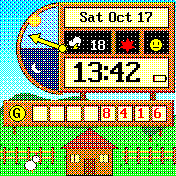
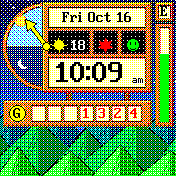
stardewclk 0.02: energy bar battery, mountains background, background setting
Battery moves from the time box to a Stardew energy bar on the right.
Adds the mountains/night-sky background (new default) alongside the
farm, selectable in the app's settings.

diff --git a/apps/stardewclk/bg0.js b/apps/stardewclk/bg0.js
@@ -1,0 +1,1 @@
[1 lines of base64/hex data omitted]

diff --git a/apps/stardewclk/bg1.js b/apps/stardewclk/bg1.js
@@ -1,0 +1,1 @@
[1 lines of base64/hex data omitted]

diff --git a/apps/stardewclk/app.js b/apps/stardewclk/app.js
@@ -1,19 +1,23 @@
 // Stardew Clock: a watch face styled on the Stardew Valley HUD.
-// Artwork is in stardewclk.bg.img (full screen) and stardewclk.icons
-// (13 raw 16x16 3bpp icons); see README.md for how they were made.
+// Artwork is in stardewclk.bg0.img/bg1.img (full-screen backgrounds:
+// mountains, farm) and stardewclk.icons (13 raw 16x16 3bpp icons); see
+// README.md for how they were made.
 {
   const storage = require("Storage");
   const locale = require("locale");
   require("Font8x16").add(Graphics);
 
   // Layout, matching the artwork
-  const PIVOT_X = 62, PIVOT_Y = 48, HAND_LEN = 36;
-  const DATE_X = 116, DATE_Y = 18;
-  const WEATHER_X = 67, SEASON_X = 119, LUCK_X = 148, ICON_Y = 34;
-  const TIME_X0 = 64, TIME_X1 = 168, TIME_Y = 73;
-  const GOLD_X = 32, GOLD_Y = 114, DIGIT_W = 17, DIGITS = 8;
+  const PIVOT_X = 46, PIVOT_Y = 46, HAND_LEN = 34;
+  const DATE_X = 97, DATE_Y = 18;
+  const WEATHER_X = 51, SEASON_X = 97, LUCK_X = 125, ICON_Y = 34;
+  const TIME_X0 = 48, TIME_X1 = 145, TIME_Y = 73;
+  const GOLD_X = 31, GOLD_Y = 114, DIGIT_W = 16, DIGITS = 7;
+  const ENERGY_X0 = 160, ENERGY_X1 = 168, ENERGY_Y0 = 28, ENERGY_Y1 = 121;
 
   let is12Hour = (storage.readJSON("setting.json", 1) || {})["12hour"];
+  let settings = storage.readJSON("stardewclk.json", 1) || {};
+  let bgFile = "stardewclk.bg" + (settings.bg | 0) + ".img";
   let drawTimeout;
 
   let icon = function(n, x, y) {
@@ -56,7 +60,7 @@
 
   let draw = function() {
     let d = new Date();
-    g.reset().drawImage(storage.read("stardewclk.bg.img"), 0, 0);
+    g.reset().drawImage(storage.read(bgFile), 0, 0);
     drawHand(d);
 
     // Date
@@ -69,32 +73,36 @@
       icon(weatherIcon(weather.code), WEATHER_X, ICON_Y + 3);
       // "22°C" -> "22", the unit won't fit
       g.setColor(1, 1, 1).setFont("8x16").setFontAlign(0, 0);
-      g.drawString(locale.temp(weather.temp - 273.15).replace(/[^-\d]+$/, ""), WEATHER_X + 31, ICON_Y + 12);
+      g.drawString(locale.temp(weather.temp - 273.15).replace(/[^-\d]+$/, ""), WEATHER_X + 27, ICON_Y + 12);
     } else {
-      icon(0, WEATHER_X + 13, ICON_Y + 3); // no forecast: it's sunny in the valley
+      icon(0, WEATHER_X + 10, ICON_Y + 3); // no forecast: it's sunny in the valley
     }
     let m = d.getMonth();
     icon(m >= 2 && m <= 4 ? 6 : m >= 5 && m <= 7 ? 7 : m >= 8 && m <= 10 ? 8 : 9, SEASON_X, ICON_Y + 3);
     icon(10 + luck(d), LUCK_X, ICON_Y + 3);
 
-    // Time, with am/pm and the battery in a column on the right
+    // Time, with am/pm in the bottom right corner
     let h = d.getHours();
-    let right = TIME_X1 - 16;
+    let right = TIME_X1;
     if (is12Hour) {
+      right -= 13;
       g.setColor(0, 0, 0).setFont("6x8").setFontAlign(0, 0);
-      g.drawString(h < 12 ? "am" : "pm", right + 7, TIME_Y - 7);
+      g.drawString(h < 12 ? "am" : "pm", right + 6, TIME_Y + 7);
       h = h % 12 || 12;
     }
-    let bat = E.getBattery();
-    g.setColor(0, 0, 0).drawRect(right + 1, TIME_Y + 2, right + 13, TIME_Y + 8).fillRect(right + 14, TIME_Y + 4, right + 14, TIME_Y + 6);
-    g.setColor(bat > 30 ? "#0f0" : bat > 15 ? "#ff0" : "#f00").fillRect(right + 2, TIME_Y + 3, right + 2 + Math.round(bat / 10), TIME_Y + 7);
     g.setColor(0, 0, 0).setFont("8x16", 2).setFontAlign(0, 0);
     g.drawString(h + ":" + ("0" + d.getMinutes()).substr(-2), (TIME_X0 + right) / 2, TIME_Y + 1);
+
+    // Battery as the energy bar: fills from the bottom, green to red
+    let bat = E.getBattery();
+    g.setFont("8x16").drawString("E", 164, 12);
+    g.setColor(bat > 50 ? "#0f0" : bat > 20 ? "#ff0" : "#f00");
+    g.fillRect(ENERGY_X0, ENERGY_Y1 - Math.round((ENERGY_Y1 - ENERGY_Y0) * bat / 100), ENERGY_X1, ENERGY_Y1);
 
     // Today's steps as gold
     g.setColor(1, 1, 0).fillCircle(17, GOLD_Y - 1, 8).setColor(0, 0, 0).drawCircle(17, GOLD_Y - 1, 8);
     g.setFont("8x16").setFontAlign(0, 0).drawString("G", 17, GOLD_Y);
-    let steps = String(Math.min(Bangle.getHealthStatus("day").steps, 99999999));
+    let steps = String(Math.min(Bangle.getHealthStatus("day").steps, 9999999));
     g.setColor(1, 0, 0);
     for (let i = 0; i < steps.length; i++)
       g.drawString(steps[i], GOLD_X + (DIGITS - steps.length + i) * DIGIT_W + 7, GOLD_Y);
@@ -115,13 +123,17 @@
     }
   };
 
+  let onCharging = () => draw();
+
   Bangle.on("lcdPower", onLcd);
+  Bangle.on("charging", onCharging);
   Bangle.setUI({
     mode: "clock",
     remove: function() {
       if (drawTimeout) clearTimeout(drawTimeout);
       drawTimeout = undefined;
       Bangle.removeListener("lcdPower", onLcd);
+      Bangle.removeListener("charging", onCharging);
       require("widget_utils").show();
     }
   });

diff --git a/apps/stardewclk/app-icon.js b/apps/stardewclk/app-icon.js
@@ -1,1 +1,1 @@
[2 lines of base64/hex data omitted]

diff --git a/apps/stardewclk/settings.js b/apps/stardewclk/settings.js
@@ -1,0 +1,19 @@
+(function(back) {
+  const FILE = "stardewclk.json";
+  const BACKGROUNDS = ["Mountains", "Farm"];
+  let settings = require("Storage").readJSON(FILE, 1) || {};
+
+  E.showMenu({
+    "": { "title": "Stardew Clock" },
+    "< Back": back,
+    "Background": {
+      value: settings.bg | 0,
+      min: 0, max: BACKGROUNDS.length - 1,
+      format: v => BACKGROUNDS[v],
+      onchange: v => {
+        settings.bg = v;
+        require("Storage").writeJSON(FILE, settings);
+      }
+    }
+  });
+})

diff --git a/apps/stardewclk/README.md b/apps/stardewclk/README.md
@@ -2,7 +2,7 @@
 
 A watch face styled on the Stardew Valley HUD.
 
-![](screenshot.png)
+![](screenshot.png) ![](screenshot2.png)
 
 ## What it shows
 
@@ -16,18 +16,27 @@ A watch face styled on the Stardew Valley HUD.
 * **Season**: spring, summer, fall or winter, by month (northern hemisphere).
 * **Daily luck**: a spirit that's happy, neutral or grumpy. It changes
   once a day.
-* **Time**: follows the 12/24 hour setting, with the battery level beside it.
+* **Time**: follows the 12/24 hour setting.
+* **Energy**: the bar on the right is the battery. It turns yellow below
+  50% and red below 20%.
 * **Gold**: today's step count.
 
 ## Controls
 
 Swipe down to show widgets. Press the button to open the launcher.
 
+## Settings
+
+In Settings > Apps > Stardew Clock, choose the **Background**:
+
+* **Mountains** (default): the valley's green peaks under a night sky
+* **Farm**: a daytime sky with the farmhouse, fence and a chicken
+
 ## Artwork
 
-The background and icons are drawn with a Pillow script and
+The backgrounds and icons are drawn with a Pillow script and
 converted to 3-bit images with EspruinoWebTools' image converter. The
-background uses ordered dithering to approximate the game's browns and
+backgrounds use ordered dithering to approximate the game's browns and
 creams on the 8-colour screen.
 
 ## Creator
